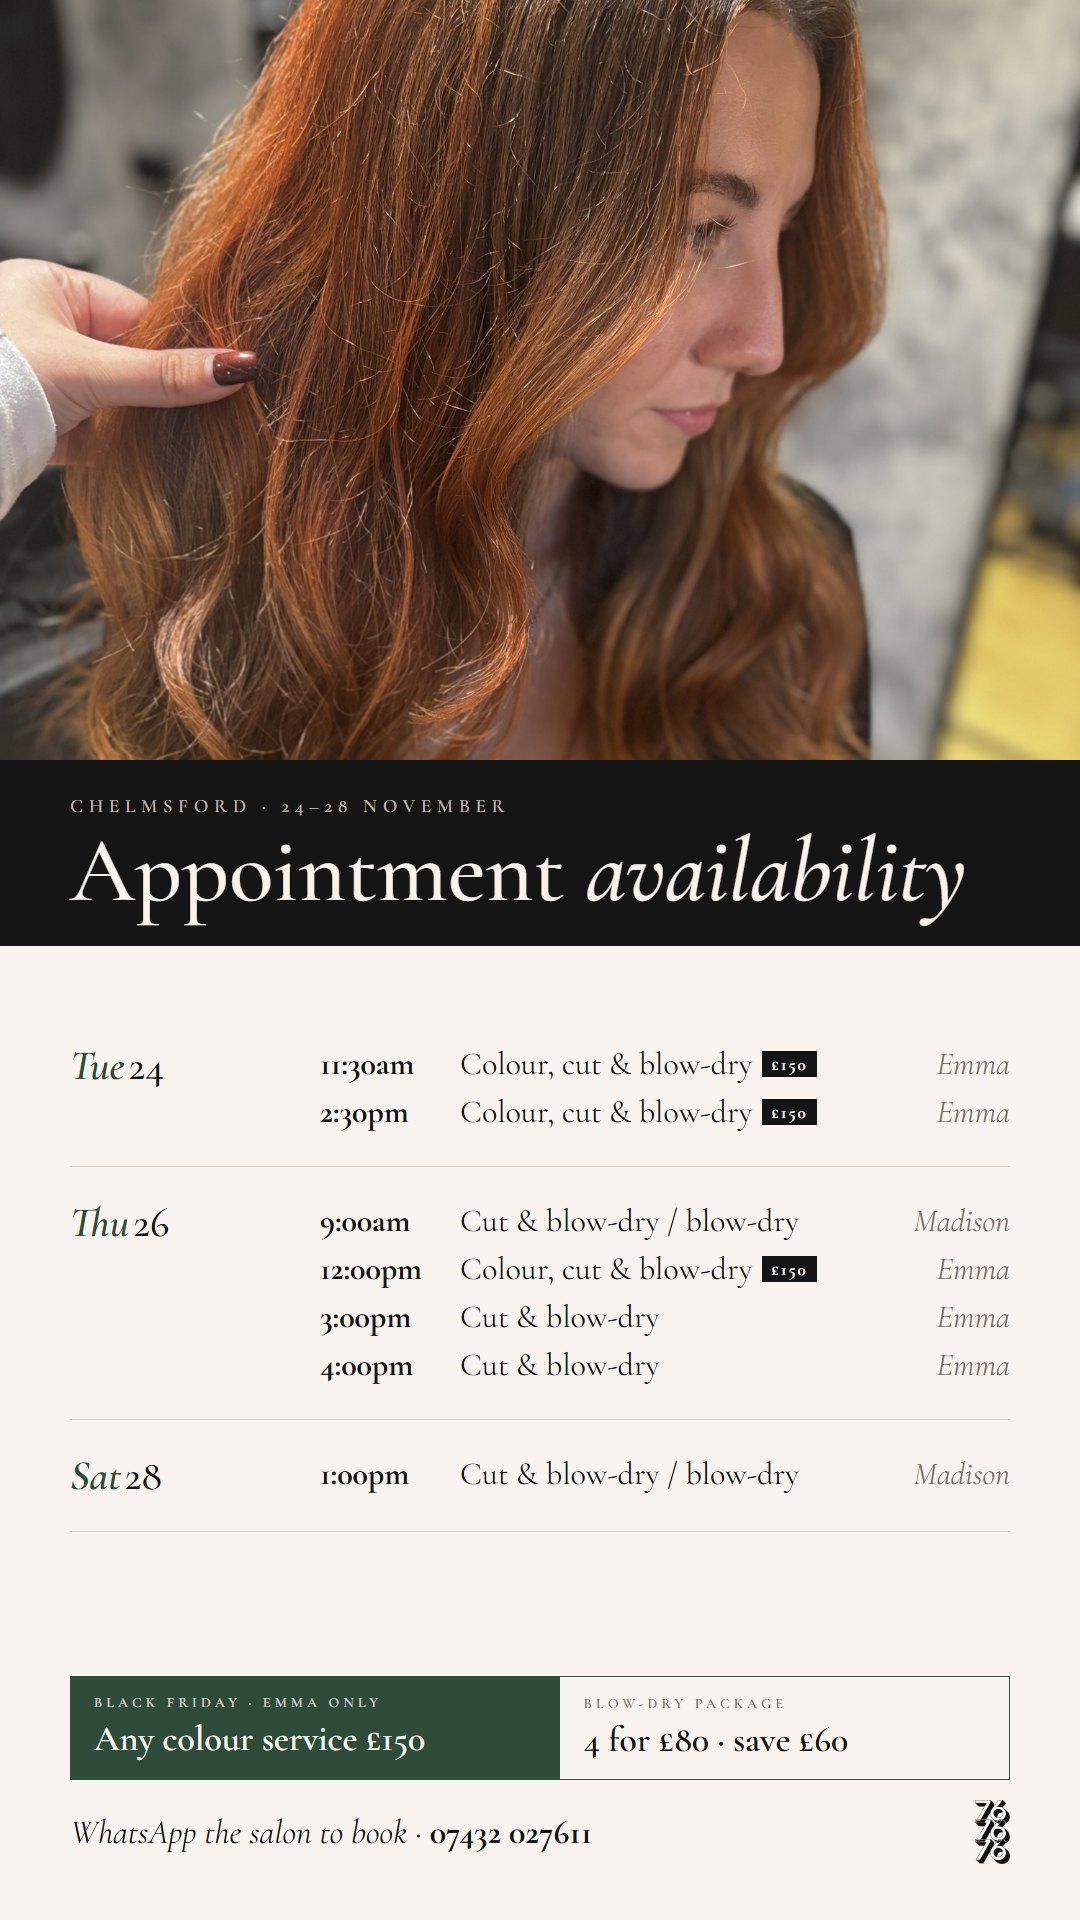
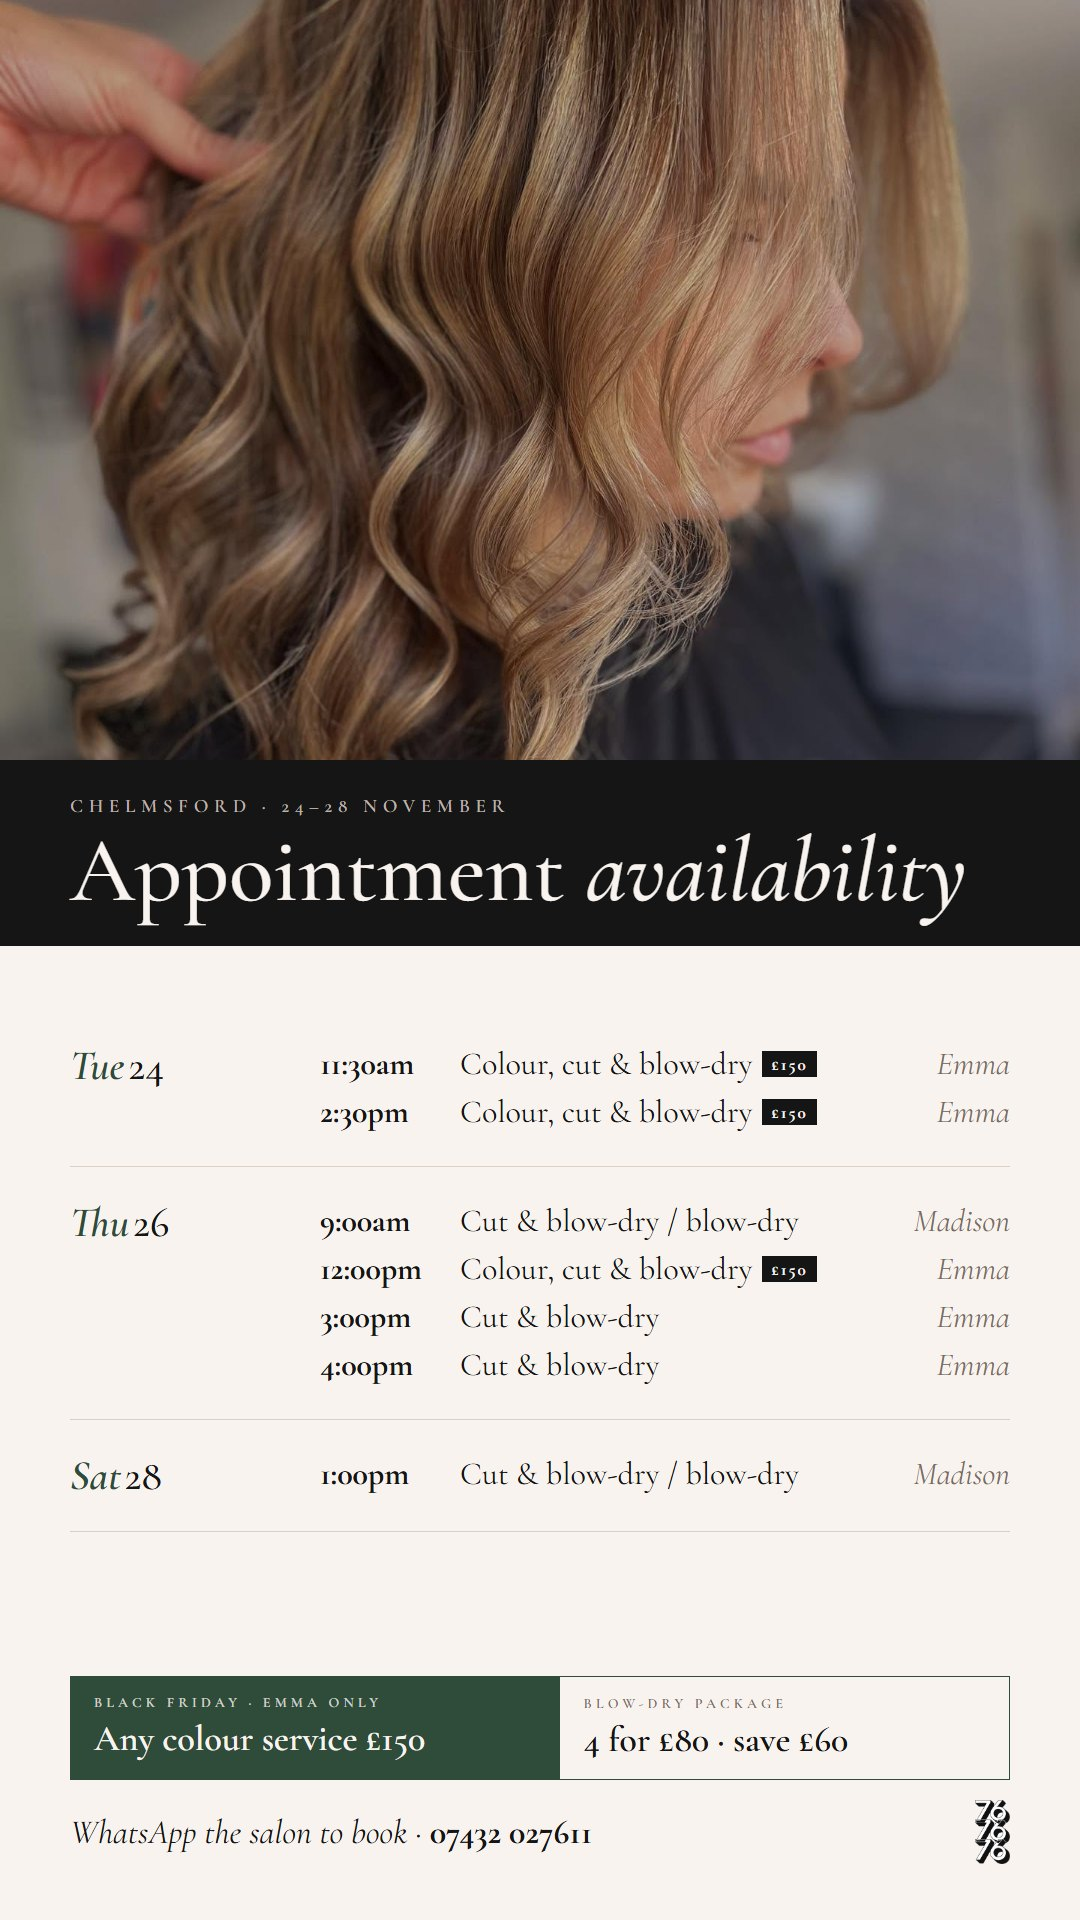
76 planner: Chelmsford story Option C uses the copper waves photo

diff --git a/seventysix-planner/index.html b/seventysix-planner/index.html
@@ -301,7 +301,7 @@ body.kim .tabs,body.kim .bfbar,body.kim #reset,body.kim #days,body.kim #copy{dis
     <div class="st-row">
       <figure><button data-s="chelm-F"><img src="img/stories/chelm-F.jpg" alt="Chelmsford story option A" loading="lazy"></button><figcaption><b>Option A</b> · Grab a spot · photos on top</figcaption></figure>
       <figure><button data-s="chelm-C"><img src="img/stories/chelm-C.jpg" alt="Chelmsford story option B" loading="lazy"></button><figcaption><b>Option B</b> · This week · day tiles</figcaption></figure>
-      <figure><button data-s="chelm-D"><img src="img/stories/chelm-D.jpg" alt="Chelmsford story option C" loading="lazy"></button><figcaption><b>Option C</b> · Big photo · list below</figcaption></figure>
+      <figure><button data-s="chelm-D"><img src="img/stories/chelm-D.jpg?v=2" alt="Chelmsford story option C" loading="lazy"></button><figcaption><b>Option C</b> · Big photo · list below</figcaption></figure>
     </div>
     <div class="st-cap"><b>Story caption</b>76 Salon Chelmsford
 See above where you can grab a spot with Emma and Madison this week
